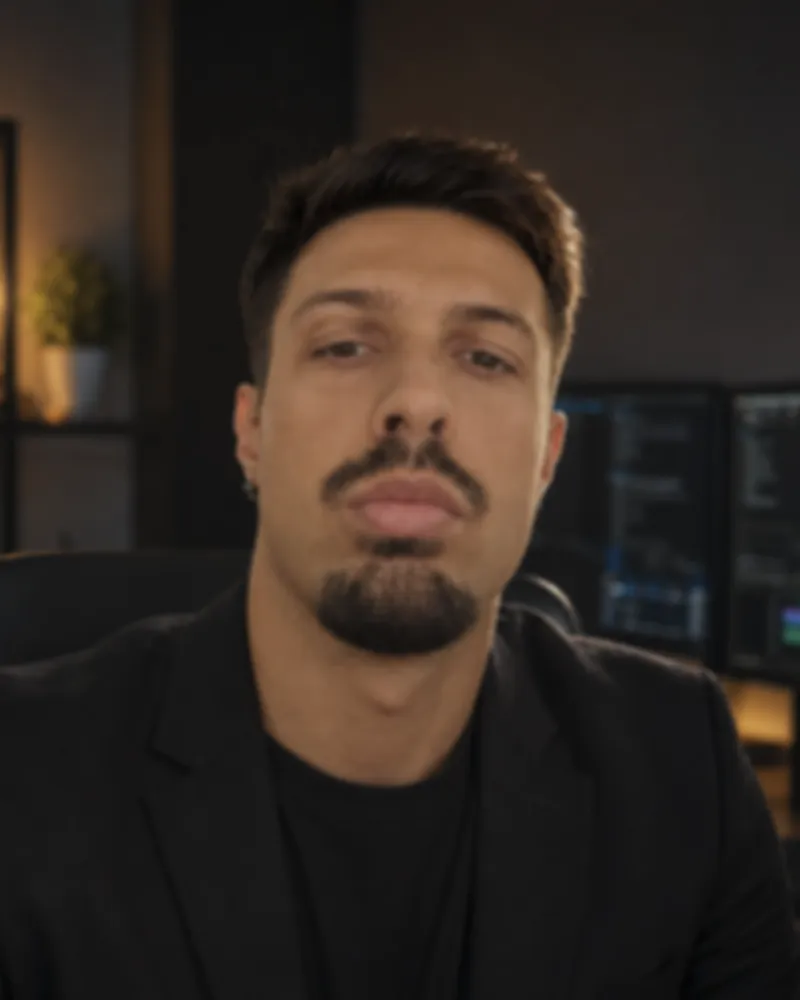
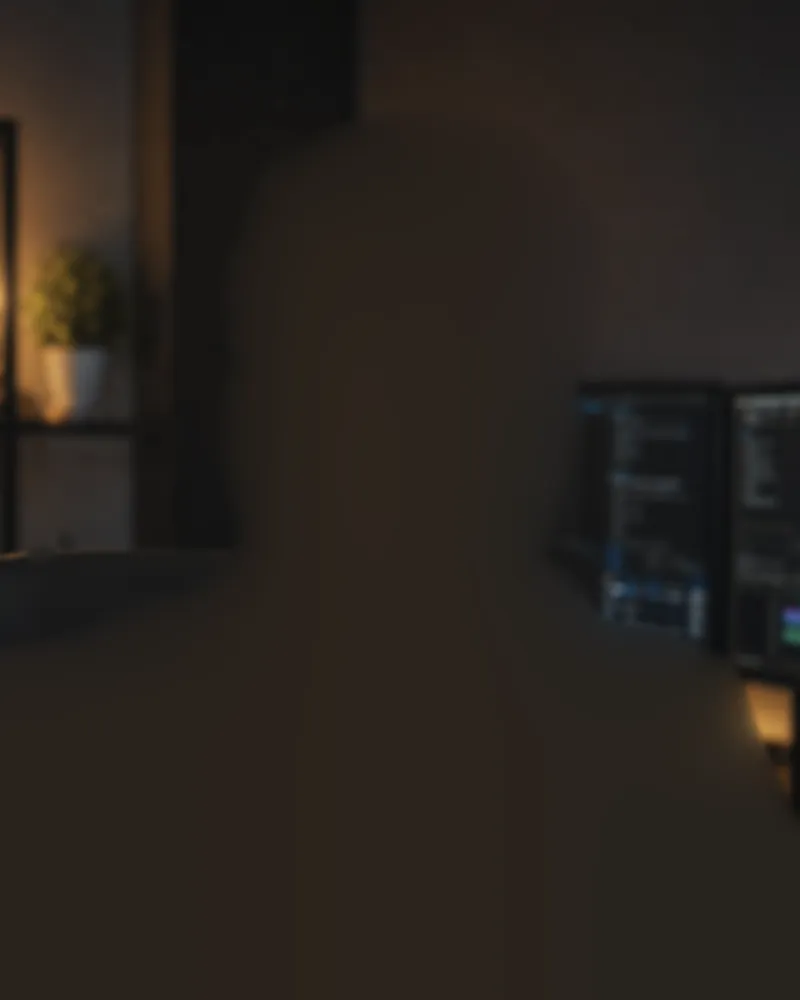
Paint the person out of the portrait backdrop
The static backdrop still contained the person, so tilting the cut-out
revealed a second copy behind it. The backdrop is now a clean plate:
the person's slightly enlarged silhouette is filled from the
surrounding room pixels, so only the room shows behind the cut-out as
it moves.

diff --git a/CLAUDE.md b/CLAUDE.md
@@ -39,7 +39,7 @@ Single-page React 19 + TypeScript app scaffolded with Vite, styled with Tailwind
 
 Thumbnails and the featured player show a clean poster image instead of the provider's embed, so no Vimeo/YouTube player chrome (play button, progress bar, logo) sits on top of the artwork. `src/hooks/usePoster.ts` derives the poster from `Project.embedUrl` — Vimeo via its public oEmbed endpoint (fetched once per video and cached in a module-level map), YouTube via its static thumbnail URL. `FeaturedPlayer` renders that poster with our own accent play button and only mounts the real `iframe` (with `autoplay=1`) once pressed; the Vimeo account is on the free plan, so the chrome can't be hidden with embed parameters like `controls=0` — don't try to go back to a bare iframe. When no poster is available (`usePoster` returns `null`, e.g. Frame.io or a failed fetch) both fall back to the raw embed `iframe`; in `ClipThumb` that iframe is `pointer-events-none`, and the whole thumb is a button, so clicking a filmstrip thumbnail always *selects* it rather than playing it inline.
 
-**Hero/top of page** is `Navbar` (sticky, rendered at the page root so it sticks for the whole page) → `Header` (two-column hero) → `SkillsMarquee`. The hero's right column is `Portrait3D`, built from two layers cut from the same 4:5 crop of the untouched source photo `src/assets/pic-original.png`: `portrait-bg.webp` (the room — desk, monitors, lamp — lightly blurred) is a static backdrop whose edges fade out via a radial `mask-image` so there's no visible box, and `portrait-person.webp` (the person, background removed) sits on top in a `preserve-3d` layer that tilts toward the cursor. Both layers share the exact same framing, so they line up at rest — re-export both together if the crop changes. Decorations ride on the tilting layer at different Framer Motion `z` (translateZ) values so they parallax at different speeds. Framer Motion owns the `transform` of `motion.*` elements, so Tailwind `translate-*` classes on them are silently overridden — pass `x`/`y` via `style` instead. `SkillsMarquee` loops seamlessly by rendering two identical `min-w-full` tracks that each translate by `-100%` of their own width — don't go back to a single track translating `-50%`, which leaves a visible gap/jump on wide screens.
+**Hero/top of page** is `Navbar` (sticky, rendered at the page root so it sticks for the whole page) → `Header` (two-column hero) → `SkillsMarquee`. The hero's right column is `Portrait3D`, built from two layers cut from the same 4:5 crop of the untouched source photo `src/assets/pic-original.png`: `portrait-bg.webp` (the room — desk, monitors, lamp — lightly blurred, with the person painted out so no second copy shows behind the cut-out while it tilts) is a static backdrop whose edges fade out via a radial `mask-image` so there's no visible box, and `portrait-person.webp` (the person, background removed) sits on top in a `preserve-3d` layer that tilts toward the cursor. Both layers share the exact same framing, so they line up at rest — re-export both together if the crop changes. Decorations ride on the tilting layer at different Framer Motion `z` (translateZ) values so they parallax at different speeds. Framer Motion owns the `transform` of `motion.*` elements, so Tailwind `translate-*` classes on them are silently overridden — pass `x`/`y` via `style` instead. `SkillsMarquee` loops seamlessly by rendering two identical `min-w-full` tracks that each translate by `-100%` of their own width — don't go back to a single track translating `-50%`, which leaves a visible gap/jump on wide screens.
 
 **Theming is centralized in `src/index.css`** via a Tailwind v4 `@theme` block (`--color-accent`, `--color-accent-2`, `--color-bg`, `--color-surface`, etc., plus `--font-sans`/`--font-display`). Components reference these only through Tailwind utility classes (`bg-accent`, `text-accent`, `bg-gradient-accent`, `border-border`, …) or the custom `.text-gradient`/`.bg-gradient-accent`/`.scrollbar-none` classes defined in that same file — there are no hardcoded color hex values in component files. To re-theme the site, change the CSS variables in `src/index.css`; do not add per-component colors.
 
